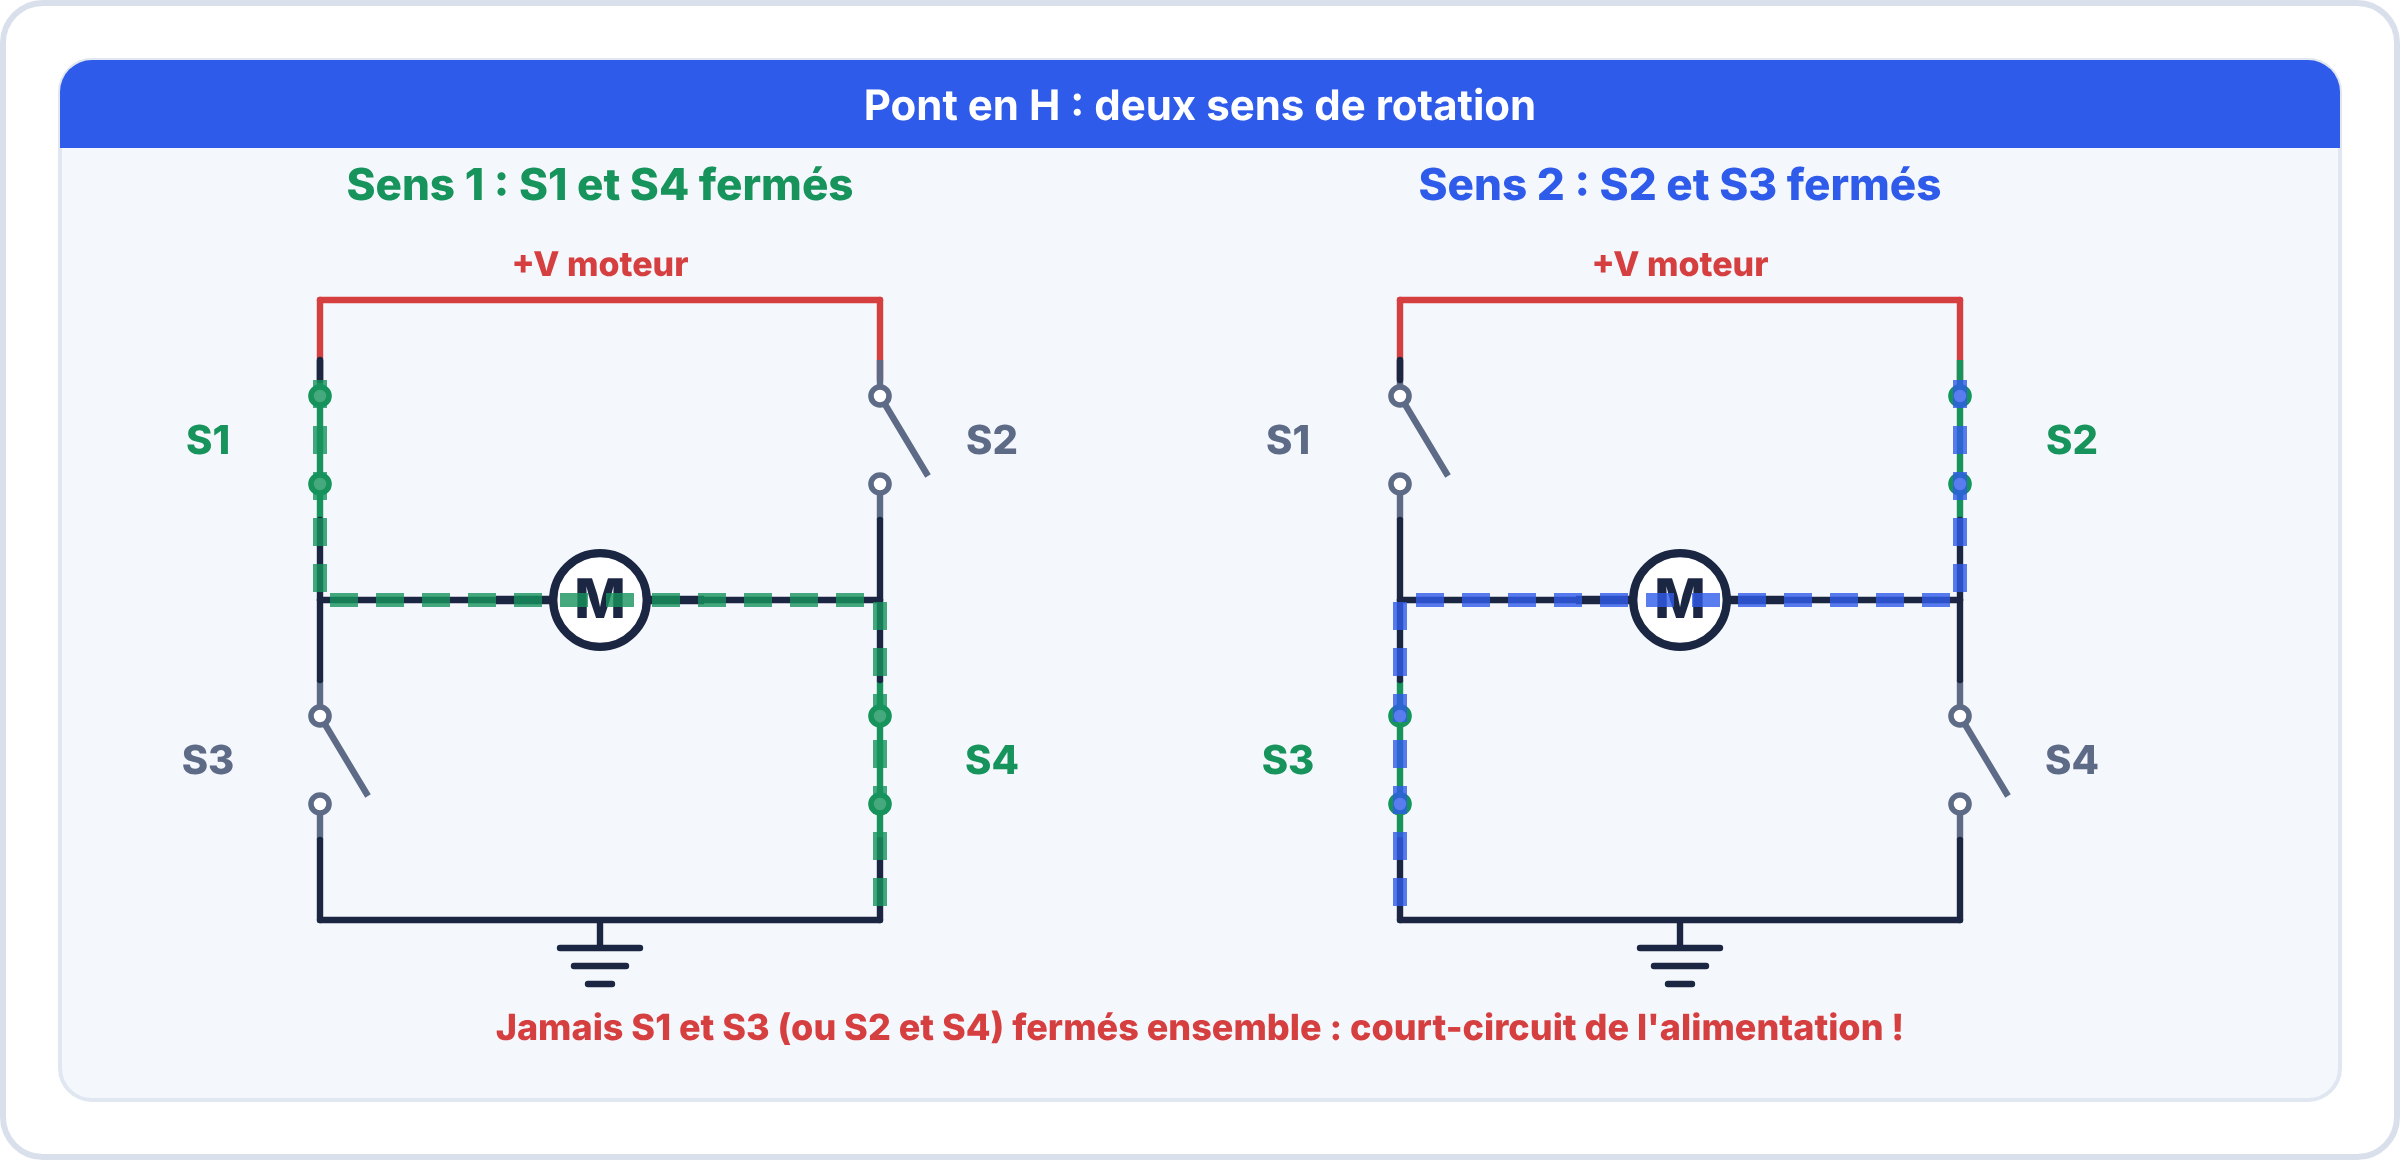
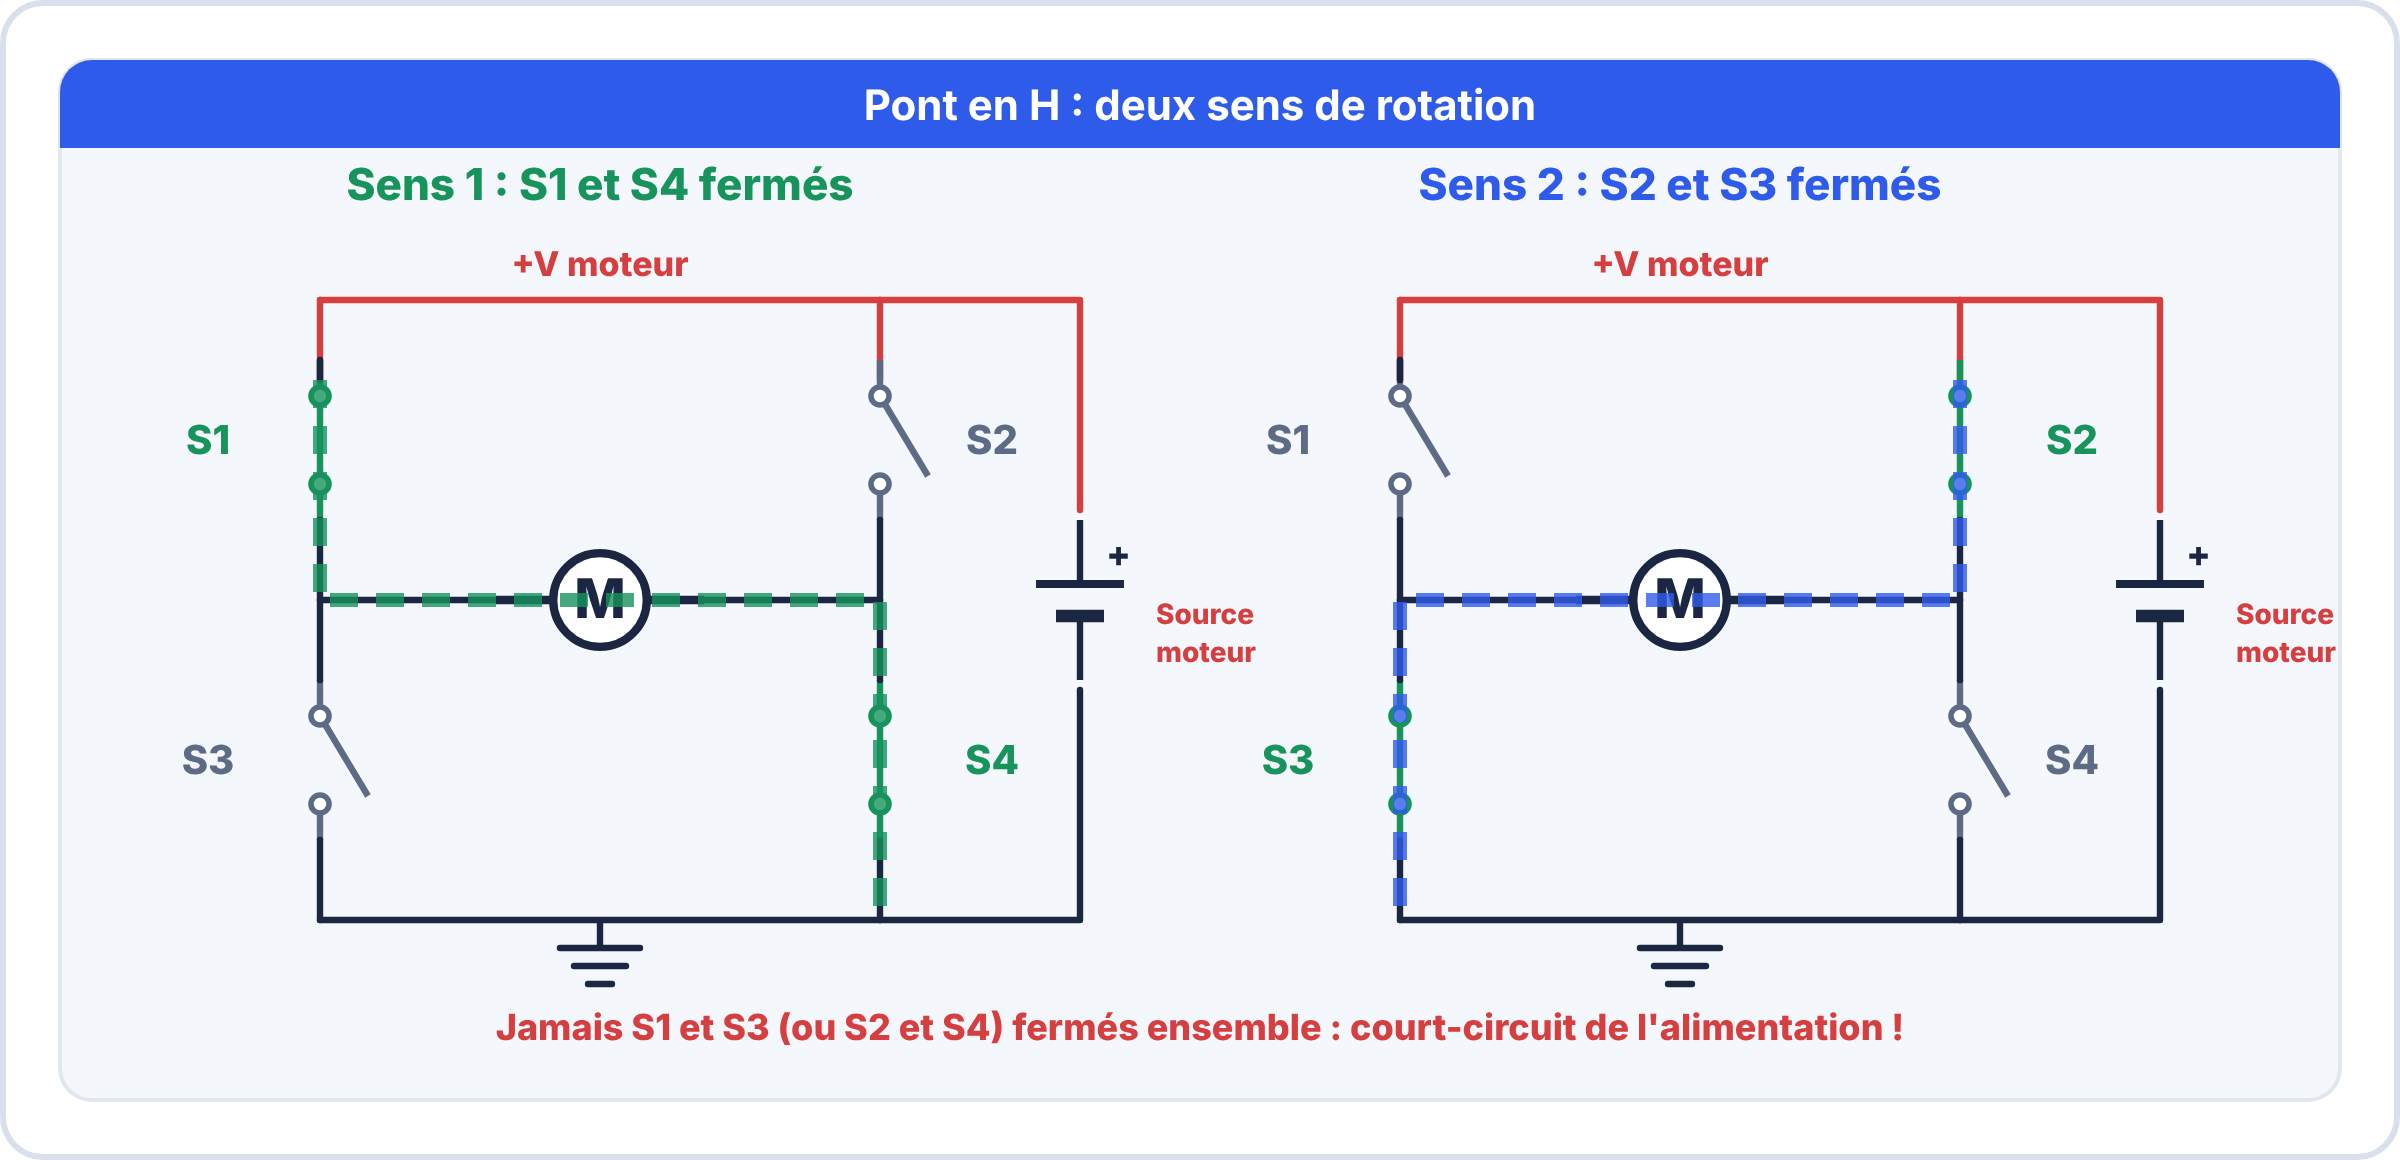
Pont en H : pile d'alimentation ajoutée (+ vers +V, - vers la masse)
Claude-Session: https://claude.ai/code/session_018Ln2Xo12prChdSPrkdSn9D

diff --git a/outils/illustrations-e2/figs_essentiel.py b/outils/illustrations-e2/figs_essentiel.py
@@ -363,6 +363,9 @@ def f_pont_h():
         r += s_wire([(xl, 300), (xl, 340)]) + s_wire([(xr, 300), (xr, 340)])
         r += s_wire([(xl, 300), (xl + 100, 300)]) + sym("MOTOR", x0 + 240, 300, rot=0, s=1.3) + s_wire([(xr - 100, 300), (xr, 300)])
         r += s_wire([(xl, 420), (xl, 460)]) + s_wire([(xr, 420), (xr, 460)]) + s_wire([(xl, 460), (xr, 460)]) + gnd(x0 + 240, 460)
+        # alimentation : pile reliée au +V (haut) et à la masse (bas)
+        xb = x0 + 480
+        r += s_wire([(xr, 150), (xb, 150), (xb, 255)], RED) + sym("BAT", xb, 300, 90, s=1.0) + s_wire([(xb, 345), (xb, 460), (xr, 460)]) + T(xb + 38, 312, "Source", 14, 800, RED, "start") + T(xb + 38, 331, "moteur", 14, 800, RED, "start")
         # trajet du courant
         if sens == 1:
             path = [(xl, 190), (xl, 300), (xr, 300), (xr, 460)]
